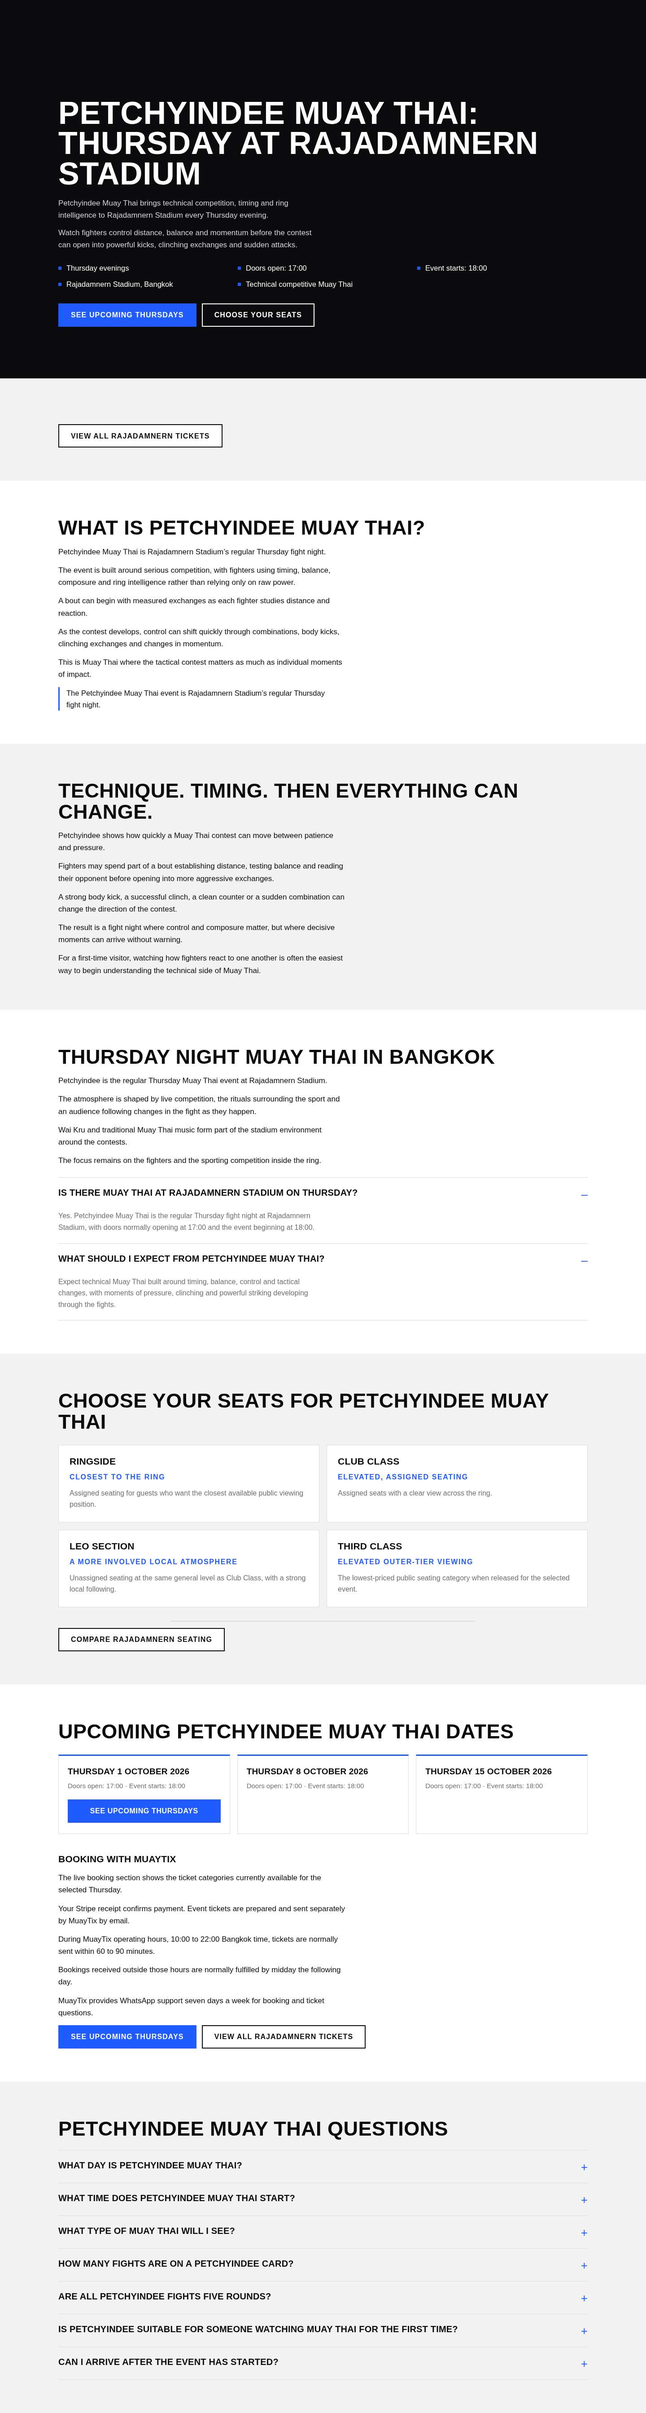
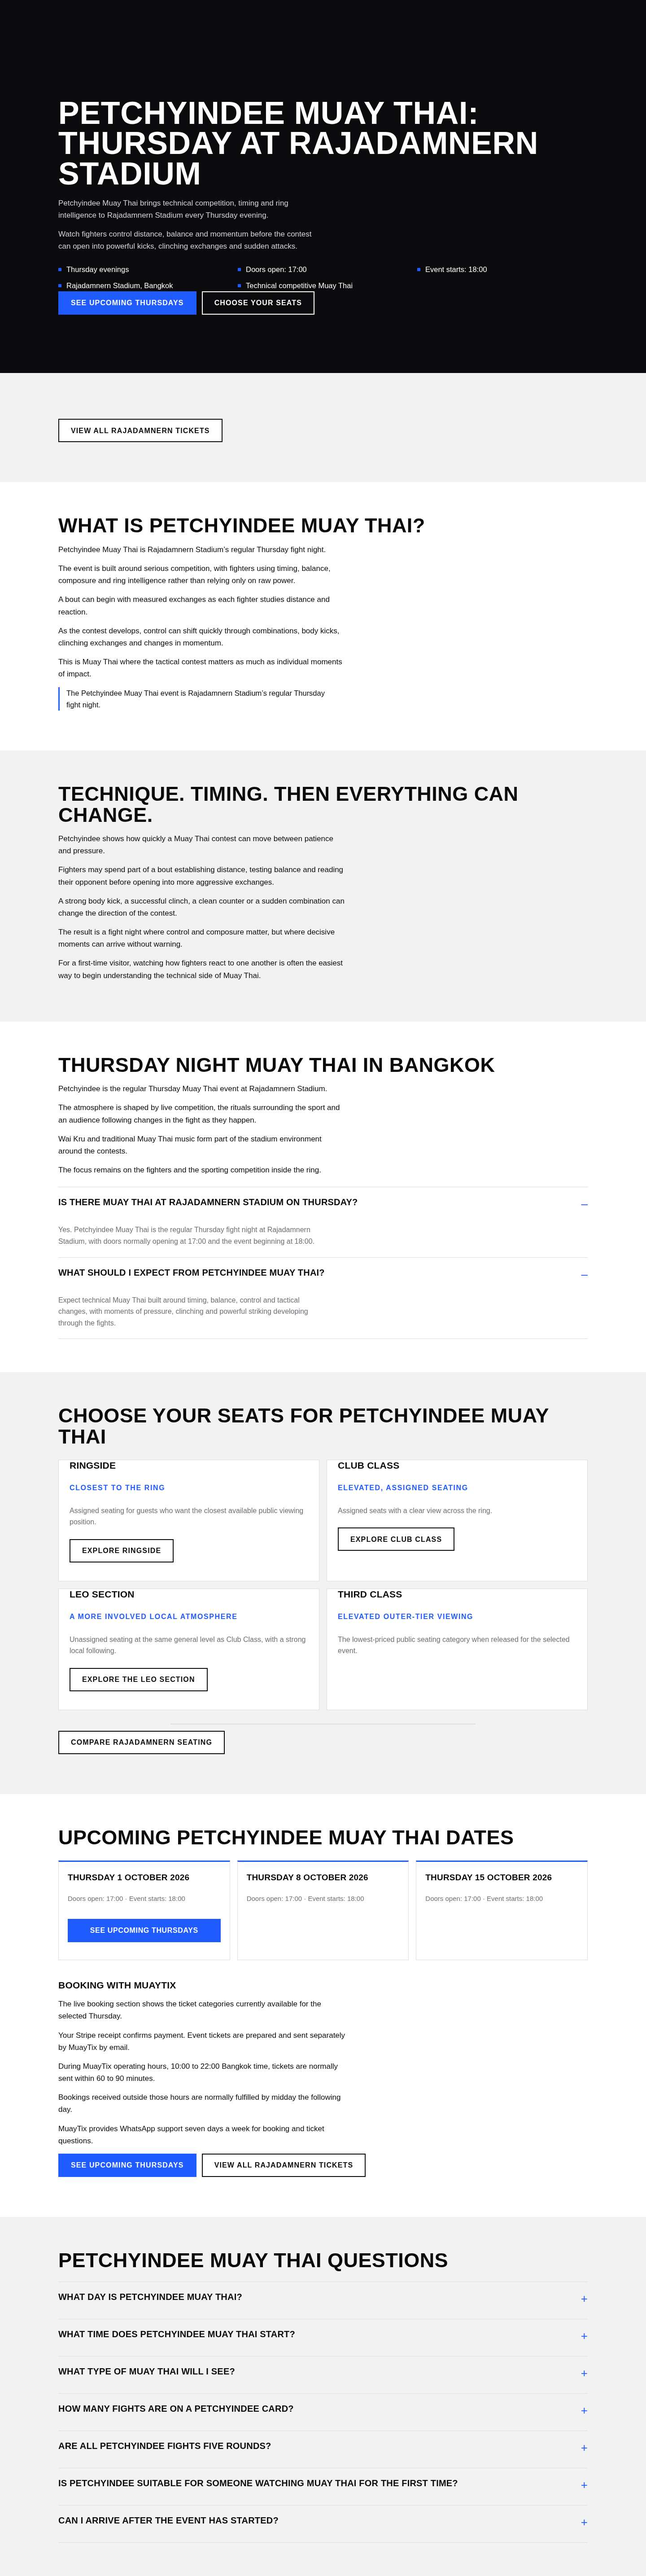
Petchyindee: fix the same desktop text-centring bug, add seat-card links
Jason asked for this directly after the same fix on New Power: check
Petchyindee's evergreen and dated pages for the same desktop text
alignment problem, and connect the seat-class cards to their own pages.

Same root cause as New Power: <div class="mtx-pi"> had no id, so it
had nothing to beat Tilda's own #allrecords * { text-align: center }
with. Fixed the same way: id="mtx-pi" in build.mjs, and the standard
#mtx-pi.mtx-pi defensive block in style.css. One wrinkle here New Power
didn't have: .mtx-pi__ev--rws .mtx-pi__btn--blue recolours the RWS-
branded event card's button darker, and the id-qualified reassertion
of the plain blue button would otherwise have outranked and silently
undone that. Restated with the id so it still wins.

Seat cards (Ringside, Club Class, LEO Section) now link to their own
pages, same approved URLs and button text already live on
pages/seating-v2 and just added to pages/new-power. Third Class still
has no link, no page exists for it.

verify.mjs gets the same hostile-host simulation added to New Power's:
renders inside a stand-in #allrecords wrapper carrying Tilda's own
centring rule, and fails if anything comes back centred. Confirms the
fix against the actual defect class, not a blank page.

Both pages re-verified after: 0 horizontal overflow at six widths, 0
elements forced centre by the hostile host, 0 contrast failures, 0
invented links, all locked copy verbatim, every seat image matched.
[…]

diff --git a/pages/petchyindee/hub-source.html b/pages/petchyindee/hub-source.html
@@ -9,7 +9,7 @@
   All visible wording is generated from document-a.txt, the approved editorial
   source. It is not typed into this file and must not be edited here.
 -->
-<div class="mtx-pi">
+<div class="mtx-pi" id="mtx-pi">
 <style>
 /* All styles are scoped under .mtx-pi so nothing here can affect the rest of
    the site, and the site's own styles are less likely to affect this block.
@@ -631,6 +631,48 @@
 .mtx-pi__close .mtx-pi__ctarow { justify-content: center; }
 @media (max-width: 1000px) { .mtx-pi__dates { grid-template-columns: repeat(2, minmax(0, 1fr)); } }
 @media (max-width: 620px) { .mtx-pi__dates { grid-template-columns: 1fr; } .mtx-pi .mtx-pi__seatgfx { width: calc(100% + 40px); margin-inline: -20px; } }
+
+/* Every page in this project pastes into Tilda under one HTML block, and
+   Tilda's own host template carries `#allrecords * { text-align: center }`.
+   That is an ID selector, (1,0,0), and it beats every rule above here: none
+   of them sets text-align at all, so on the live page every lede, every
+   fact, every card title and every FAQ question came back centred. Found
+   the same defect, same missing id, on pages/new-power/style.css first (30
+   September 2026); this page had never had the id either.
+
+   #mtx-pi.mtx-pi * is (1,1,1) and beats (1,0,0) outright, regardless of
+   source order. */
+#mtx-pi.mtx-pi,
+#mtx-pi.mtx-pi * { text-align: left; }
+
+/* The handful that genuinely centre are told again, one level higher. */
+#mtx-pi.mtx-pi .mtx-pi__btn,
+#mtx-pi.mtx-pi .mtx-pi__close,
+#mtx-pi.mtx-pi .mtx-pi__close * { text-align: center; }
+
+/* Colour, stated the same way and for the same reason: a host rule shaped
+   like `#allrecords a { color: inherit }` is (1,0,1) and beats every
+   single-class button rule above it. */
+#mtx-pi.mtx-pi a.mtx-pi__btn--blue    { background: var(--pi-blue); color: #fff; }
+#mtx-pi.mtx-pi a.mtx-pi__btn--blue:hover    { background: var(--pi-blue-dark); color: #fff; }
+#mtx-pi.mtx-pi a.mtx-pi__btn--ghost   { background: transparent; border-color: #fff; color: #fff; }
+#mtx-pi.mtx-pi a.mtx-pi__btn--ghost:hover   { background: #fff; color: var(--pi-ink); }
+#mtx-pi.mtx-pi a.mtx-pi__btn--outline { background: #fff; border-color: var(--pi-ink); color: var(--pi-ink); }
+#mtx-pi.mtx-pi a.mtx-pi__btn--outline:hover { border-color: var(--pi-blue); color: var(--pi-blue); }
+#mtx-pi.mtx-pi a.mtx-pi__btn--red     { background: var(--pi-rws); color: #fff; }
+#mtx-pi.mtx-pi a.mtx-pi__btn--red:hover     { background: var(--pi-rws-dark); color: #fff; }
+
+/* The RWS-branded event card recolours its own blue button darker. That rule
+   is .mtx-pi__ev--rws .mtx-pi__btn--blue, (0,2,0), which the plain-coloured
+   reassertion two lines up, now (1,2,1) with the id added, would otherwise
+   beat and silently turn back to ordinary blue. Restated with the id so it
+   keeps winning. */
+#mtx-pi.mtx-pi .mtx-pi__ev--rws a.mtx-pi__btn--blue { background: var(--pi-rws-dark); }
+#mtx-pi.mtx-pi .mtx-pi__ev--rws a.mtx-pi__btn--blue:hover { background: #a80a15; }
+
+/* The new per-class link on each seat card (Ringside, Club Class, LEO
+   Section). Third Class has no page yet, so its card gets no button. */
+.mtx-pi__cardgo { margin-top: 16px !important; }
 </style>
 
   <header class="mtx-pi__hero">
@@ -720,6 +762,7 @@
           <h3>Ringside</h3>
           <p class="mtx-pi__standfirst">Closest to the ring</p>
           <p>Assigned seating for guests who want the closest available public viewing position.</p>
+          <p class="mtx-pi__cardgo"><a class="mtx-pi__btn mtx-pi__btn--outline" href="/rajadamnern-stadium-seating/ringside">Explore Ringside</a></p>
         </li>
 
         <li class="mtx-pi__card mtx-pi__card--gfx">
@@ -727,6 +770,7 @@
           <h3>Club Class</h3>
           <p class="mtx-pi__standfirst">Elevated, assigned seating</p>
           <p>Assigned seats with a clear view across the ring.</p>
+          <p class="mtx-pi__cardgo"><a class="mtx-pi__btn mtx-pi__btn--outline" href="/rajadamnern-stadium-seating/club-class">Explore Club Class</a></p>
         </li>
 
         <li class="mtx-pi__card mtx-pi__card--gfx">
@@ -734,6 +778,7 @@
           <h3>LEO Section</h3>
           <p class="mtx-pi__standfirst">A more involved local atmosphere</p>
           <p>Unassigned seating at the same general level as Club Class, with a strong local following.</p>
+          <p class="mtx-pi__cardgo"><a class="mtx-pi__btn mtx-pi__btn--outline" href="/rajadamnern-stadium-seating/leo-section">Explore the LEO Section</a></p>
         </li>
 
         <li class="mtx-pi__card mtx-pi__card--gfx">

diff --git a/pages/petchyindee/dated-source.html b/pages/petchyindee/dated-source.html
@@ -9,7 +9,7 @@
   All visible wording is generated from document-a.txt, the approved editorial
   source. It is not typed into this file and must not be edited here.
 -->
-<div class="mtx-pi">
+<div class="mtx-pi" id="mtx-pi">
 <style>
 /* All styles are scoped under .mtx-pi so nothing here can affect the rest of
    the site, and the site's own styles are less likely to affect this block.
@@ -631,6 +631,48 @@
 .mtx-pi__close .mtx-pi__ctarow { justify-content: center; }
 @media (max-width: 1000px) { .mtx-pi__dates { grid-template-columns: repeat(2, minmax(0, 1fr)); } }
 @media (max-width: 620px) { .mtx-pi__dates { grid-template-columns: 1fr; } .mtx-pi .mtx-pi__seatgfx { width: calc(100% + 40px); margin-inline: -20px; } }
+
+/* Every page in this project pastes into Tilda under one HTML block, and
+   Tilda's own host template carries `#allrecords * { text-align: center }`.
+   That is an ID selector, (1,0,0), and it beats every rule above here: none
+   of them sets text-align at all, so on the live page every lede, every
+   fact, every card title and every FAQ question came back centred. Found
+   the same defect, same missing id, on pages/new-power/style.css first (30
+   September 2026); this page had never had the id either.
+
+   #mtx-pi.mtx-pi * is (1,1,1) and beats (1,0,0) outright, regardless of
+   source order. */
+#mtx-pi.mtx-pi,
+#mtx-pi.mtx-pi * { text-align: left; }
+
+/* The handful that genuinely centre are told again, one level higher. */
+#mtx-pi.mtx-pi .mtx-pi__btn,
+#mtx-pi.mtx-pi .mtx-pi__close,
+#mtx-pi.mtx-pi .mtx-pi__close * { text-align: center; }
+
+/* Colour, stated the same way and for the same reason: a host rule shaped
+   like `#allrecords a { color: inherit }` is (1,0,1) and beats every
+   single-class button rule above it. */
+#mtx-pi.mtx-pi a.mtx-pi__btn--blue    { background: var(--pi-blue); color: #fff; }
+#mtx-pi.mtx-pi a.mtx-pi__btn--blue:hover    { background: var(--pi-blue-dark); color: #fff; }
+#mtx-pi.mtx-pi a.mtx-pi__btn--ghost   { background: transparent; border-color: #fff; color: #fff; }
+#mtx-pi.mtx-pi a.mtx-pi__btn--ghost:hover   { background: #fff; color: var(--pi-ink); }
+#mtx-pi.mtx-pi a.mtx-pi__btn--outline { background: #fff; border-color: var(--pi-ink); color: var(--pi-ink); }
+#mtx-pi.mtx-pi a.mtx-pi__btn--outline:hover { border-color: var(--pi-blue); color: var(--pi-blue); }
+#mtx-pi.mtx-pi a.mtx-pi__btn--red     { background: var(--pi-rws); color: #fff; }
+#mtx-pi.mtx-pi a.mtx-pi__btn--red:hover     { background: var(--pi-rws-dark); color: #fff; }
+
+/* The RWS-branded event card recolours its own blue button darker. That rule
+   is .mtx-pi__ev--rws .mtx-pi__btn--blue, (0,2,0), which the plain-coloured
+   reassertion two lines up, now (1,2,1) with the id added, would otherwise
+   beat and silently turn back to ordinary blue. Restated with the id so it
+   keeps winning. */
+#mtx-pi.mtx-pi .mtx-pi__ev--rws a.mtx-pi__btn--blue { background: var(--pi-rws-dark); }
+#mtx-pi.mtx-pi .mtx-pi__ev--rws a.mtx-pi__btn--blue:hover { background: #a80a15; }
+
+/* The new per-class link on each seat card (Ringside, Club Class, LEO
+   Section). Third Class has no page yet, so its card gets no button. */
+.mtx-pi__cardgo { margin-top: 16px !important; }
 </style>
 
   <header class="mtx-pi__hero">
@@ -694,6 +736,7 @@
           <h3>Ringside</h3>
           <p class="mtx-pi__standfirst">Closest to the ring</p>
           <p>Assigned seating for guests who want the closest available public viewing position.</p>
+          <p class="mtx-pi__cardgo"><a class="mtx-pi__btn mtx-pi__btn--outline" href="/rajadamnern-stadium-seating/ringside">Explore Ringside</a></p>
         </li>
 
         <li class="mtx-pi__card mtx-pi__card--gfx">
@@ -701,6 +744,7 @@
           <h3>Club Class</h3>
           <p class="mtx-pi__standfirst">Elevated, assigned seating</p>
           <p>Assigned seats with a clear view across the ring.</p>
+          <p class="mtx-pi__cardgo"><a class="mtx-pi__btn mtx-pi__btn--outline" href="/rajadamnern-stadium-seating/club-class">Explore Club Class</a></p>
         </li>
 
         <li class="mtx-pi__card mtx-pi__card--gfx">
@@ -708,6 +752,7 @@
           <h3>LEO Section</h3>
           <p class="mtx-pi__standfirst">A more involved local atmosphere</p>
           <p>Unassigned seating at the same general level as Club Class, with a strong local following.</p>
+          <p class="mtx-pi__cardgo"><a class="mtx-pi__btn mtx-pi__btn--outline" href="/rajadamnern-stadium-seating/leo-section">Explore the LEO Section</a></p>
         </li>
       </ul>
         <p class="mtx-pi__maplayout">

diff --git a/pages/petchyindee/petchyindee-HUB-PASTE-INTO-TILDA.html b/pages/petchyindee/petchyindee-HUB-PASTE-INTO-TILDA.html
@@ -1,4 +1,4 @@
-<div class="mtx-pi">
+<div class="mtx-pi" id="mtx-pi">
 <style>.mtx-pi, .mtx-pi * { box-sizing: border-box; }
 .mtx-pi {
   --pi-blue: #1f5bff;
@@ -468,7 +468,28 @@
 .mtx-pi .mtx-pi__close p { margin-inline: auto; }
 .mtx-pi__close .mtx-pi__ctarow { justify-content: center; }
 @media (max-width: 1000px) { .mtx-pi__dates { grid-template-columns: repeat(2, minmax(0, 1fr)); } }
-@media (max-width: 620px) { .mtx-pi__dates { grid-template-columns: 1fr; } .mtx-pi .mtx-pi__seatgfx { width: calc(100% + 40px); margin-inline: -20px; } }</style>
+@media (max-width: 620px) { .mtx-pi__dates { grid-template-columns: 1fr; } .mtx-pi .mtx-pi__seatgfx { width: calc(100% + 40px); margin-inline: -20px; } }
+
+#mtx-pi.mtx-pi,
+#mtx-pi.mtx-pi * { text-align: left; }
+
+#mtx-pi.mtx-pi .mtx-pi__btn,
+#mtx-pi.mtx-pi .mtx-pi__close,
+#mtx-pi.mtx-pi .mtx-pi__close * { text-align: center; }
+
+#mtx-pi.mtx-pi a.mtx-pi__btn--blue    { background: var(--pi-blue); color: #fff; }
+#mtx-pi.mtx-pi a.mtx-pi__btn--blue:hover    { background: var(--pi-blue-dark); color: #fff; }
+#mtx-pi.mtx-pi a.mtx-pi__btn--ghost   { background: transparent; border-color: #fff; color: #fff; }
+#mtx-pi.mtx-pi a.mtx-pi__btn--ghost:hover   { background: #fff; color: var(--pi-ink); }
+#mtx-pi.mtx-pi a.mtx-pi__btn--outline { background: #fff; border-color: var(--pi-ink); color: var(--pi-ink); }
+#mtx-pi.mtx-pi a.mtx-pi__btn--outline:hover { border-color: var(--pi-blue); color: var(--pi-blue); }
+#mtx-pi.mtx-pi a.mtx-pi__btn--red     { background: var(--pi-rws); color: #fff; }
+#mtx-pi.mtx-pi a.mtx-pi__btn--red:hover     { background: var(--pi-rws-dark); color: #fff; }
+
+#mtx-pi.mtx-pi .mtx-pi__ev--rws a.mtx-pi__btn--blue { background: var(--pi-rws-dark); }
+#mtx-pi.mtx-pi .mtx-pi__ev--rws a.mtx-pi__btn--blue:hover { background: #a80a15; }
+
+.mtx-pi__cardgo { margin-top: 16px !important; }</style>
 
   <header class="mtx-pi__hero">
     <div class="mtx-pi__shell">
@@ -552,6 +573,7 @@
           <h3>Ringside</h3>
           <p class="mtx-pi__standfirst">Closest to the ring</p>
           <p>Assigned seating for guests who want the closest available public viewing position.</p>
+          <p class="mtx-pi__cardgo"><a class="mtx-pi__btn mtx-pi__btn--outline" href="/rajadamnern-stadium-seating/ringside">Explore Ringside</a></p>
         </li>
 
         <li class="mtx-pi__card mtx-pi__card--gfx">
@@ -559,6 +581,7 @@
           <h3>Club Class</h3>
           <p class="mtx-pi__standfirst">Elevated, assigned seating</p>
           <p>Assigned seats with a clear view across the ring.</p>
+          <p class="mtx-pi__cardgo"><a class="mtx-pi__btn mtx-pi__btn--outline" href="/rajadamnern-stadium-seating/club-class">Explore Club Class</a></p>
         </li>
 
         <li class="mtx-pi__card mtx-pi__card--gfx">
@@ -566,6 +589,7 @@
           <h3>LEO Section</h3>
           <p class="mtx-pi__standfirst">A more involved local atmosphere</p>
           <p>Unassigned seating at the same general level as Club Class, with a strong local following.</p>
+          <p class="mtx-pi__cardgo"><a class="mtx-pi__btn mtx-pi__btn--outline" href="/rajadamnern-stadium-seating/leo-section">Explore the LEO Section</a></p>
         </li>
 
         <li class="mtx-pi__card mtx-pi__card--gfx">

diff --git a/pages/petchyindee/petchyindee-01-OCT-PASTE-INTO-TILDA.html b/pages/petchyindee/petchyindee-01-OCT-PASTE-INTO-TILDA.html
@@ -1,4 +1,4 @@
-<div class="mtx-pi">
+<div class="mtx-pi" id="mtx-pi">
 <style>.mtx-pi, .mtx-pi * { box-sizing: border-box; }
 .mtx-pi {
   --pi-blue: #1f5bff;
@@ -468,7 +468,28 @@
 .mtx-pi .mtx-pi__close p { margin-inline: auto; }
 .mtx-pi__close .mtx-pi__ctarow { justify-content: center; }
 @media (max-width: 1000px) { .mtx-pi__dates { grid-template-columns: repeat(2, minmax(0, 1fr)); } }
-@media (max-width: 620px) { .mtx-pi__dates { grid-template-columns: 1fr; } .mtx-pi .mtx-pi__seatgfx { width: calc(100% + 40px); margin-inline: -20px; } }</style>
+@media (max-width: 620px) { .mtx-pi__dates { grid-template-columns: 1fr; } .mtx-pi .mtx-pi__seatgfx { width: calc(100% + 40px); margin-inline: -20px; } }
+
+#mtx-pi.mtx-pi,
+#mtx-pi.mtx-pi * { text-align: left; }
+
+#mtx-pi.mtx-pi .mtx-pi__btn,
+#mtx-pi.mtx-pi .mtx-pi__close,
+#mtx-pi.mtx-pi .mtx-pi__close * { text-align: center; }
+
+#mtx-pi.mtx-pi a.mtx-pi__btn--blue    { background: var(--pi-blue); color: #fff; }
+#mtx-pi.mtx-pi a.mtx-pi__btn--blue:hover    { background: var(--pi-blue-dark); color: #fff; }
+#mtx-pi.mtx-pi a.mtx-pi__btn--ghost   { background: transparent; border-color: #fff; color: #fff; }
+#mtx-pi.mtx-pi a.mtx-pi__btn--ghost:hover   { background: #fff; color: var(--pi-ink); }
+#mtx-pi.mtx-pi a.mtx-pi__btn--outline { background: #fff; border-color: var(--pi-ink); color: var(--pi-ink); }
+#mtx-pi.mtx-pi a.mtx-pi__btn--outline:hover { border-color: var(--pi-blue); color: var(--pi-blue); }
+#mtx-pi.mtx-pi a.mtx-pi__btn--red     { background: var(--pi-rws); color: #fff; }
+#mtx-pi.mtx-pi a.mtx-pi__btn--red:hover     { background: var(--pi-rws-dark); color: #fff; }
+
+#mtx-pi.mtx-pi .mtx-pi__ev--rws a.mtx-pi__btn--blue { background: var(--pi-rws-dark); }
+#mtx-pi.mtx-pi .mtx-pi__ev--rws a.mtx-pi__btn--blue:hover { background: #a80a15; }
+
+.mtx-pi__cardgo { margin-top: 16px !important; }</style>
 
   <header class="mtx-pi__hero">
     <div class="mtx-pi__shell">
@@ -528,6 +549,7 @@
           <h3>Ringside</h3>
           <p class="mtx-pi__standfirst">Closest to the ring</p>
           <p>Assigned seating for guests who want the closest available public viewing position.</p>
+          <p class="mtx-pi__cardgo"><a class="mtx-pi__btn mtx-pi__btn--outline" href="/rajadamnern-stadium-seating/ringside">Explore Ringside</a></p>
         </li>
 
         <li class="mtx-pi__card mtx-pi__card--gfx">
@@ -535,6 +557,7 @@
           <h3>Club Class</h3>
           <p class="mtx-pi__standfirst">Elevated, assigned seating</p>
           <p>Assigned seats with a clear view across the ring.</p>
+          <p class="mtx-pi__cardgo"><a class="mtx-pi__btn mtx-pi__btn--outline" href="/rajadamnern-stadium-seating/club-class">Explore Club Class</a></p>
         </li>
 
         <li class="mtx-pi__card mtx-pi__card--gfx">
@@ -542,6 +565,7 @@
           <h3>LEO Section</h3>
           <p class="mtx-pi__standfirst">A more involved local atmosphere</p>
           <p>Unassigned seating at the same general level as Club Class, with a strong local following.</p>
+          <p class="mtx-pi__cardgo"><a class="mtx-pi__btn mtx-pi__btn--outline" href="/rajadamnern-stadium-seating/leo-section">Explore the LEO Section</a></p>
         </li>
       </ul>
         <p class="mtx-pi__maplayout">

diff --git a/pages/petchyindee/style.css b/pages/petchyindee/style.css
@@ -618,3 +618,45 @@
 .mtx-pi__close .mtx-pi__ctarow { justify-content: center; }
 @media (max-width: 1000px) { .mtx-pi__dates { grid-template-columns: repeat(2, minmax(0, 1fr)); } }
 @media (max-width: 620px) { .mtx-pi__dates { grid-template-columns: 1fr; } .mtx-pi .mtx-pi__seatgfx { width: calc(100% + 40px); margin-inline: -20px; } }
+
+/* Every page in this project pastes into Tilda under one HTML block, and
+   Tilda's own host template carries `#allrecords * { text-align: center }`.
+   That is an ID selector, (1,0,0), and it beats every rule above here: none
+   of them sets text-align at all, so on the live page every lede, every
+   fact, every card title and every FAQ question came back centred. Found
+   the same defect, same missing id, on pages/new-power/style.css first (30
+   September 2026); this page had never had the id either.
+
+   #mtx-pi.mtx-pi * is (1,1,1) and beats (1,0,0) outright, regardless of
+   source order. */
+#mtx-pi.mtx-pi,
+#mtx-pi.mtx-pi * { text-align: left; }
+
+/* The handful that genuinely centre are told again, one level higher. */
+#mtx-pi.mtx-pi .mtx-pi__btn,
+#mtx-pi.mtx-pi .mtx-pi__close,
+#mtx-pi.mtx-pi .mtx-pi__close * { text-align: center; }
+
+/* Colour, stated the same way and for the same reason: a host rule shaped
+   like `#allrecords a { color: inherit }` is (1,0,1) and beats every
+   single-class button rule above it. */
+#mtx-pi.mtx-pi a.mtx-pi__btn--blue    { background: var(--pi-blue); color: #fff; }
+#mtx-pi.mtx-pi a.mtx-pi__btn--blue:hover    { background: var(--pi-blue-dark); color: #fff; }
+#mtx-pi.mtx-pi a.mtx-pi__btn--ghost   { background: transparent; border-color: #fff; color: #fff; }
+#mtx-pi.mtx-pi a.mtx-pi__btn--ghost:hover   { background: #fff; color: var(--pi-ink); }
+#mtx-pi.mtx-pi a.mtx-pi__btn--outline { background: #fff; border-color: var(--pi-ink); color: var(--pi-ink); }
+#mtx-pi.mtx-pi a.mtx-pi__btn--outline:hover { border-color: var(--pi-blue); color: var(--pi-blue); }
+#mtx-pi.mtx-pi a.mtx-pi__btn--red     { background: var(--pi-rws); color: #fff; }
+#mtx-pi.mtx-pi a.mtx-pi__btn--red:hover     { background: var(--pi-rws-dark); color: #fff; }
+
+/* The RWS-branded event card recolours its own blue button darker. That rule
+   is .mtx-pi__ev--rws .mtx-pi__btn--blue, (0,2,0), which the plain-coloured
+   reassertion two lines up, now (1,2,1) with the id added, would otherwise
+   beat and silently turn back to ordinary blue. Restated with the id so it
+   keeps winning. */
+#mtx-pi.mtx-pi .mtx-pi__ev--rws a.mtx-pi__btn--blue { background: var(--pi-rws-dark); }
+#mtx-pi.mtx-pi .mtx-pi__ev--rws a.mtx-pi__btn--blue:hover { background: #a80a15; }
+
+/* The new per-class link on each seat card (Ringside, Club Class, LEO
+   Section). Third Class has no page yet, so its card gets no button. */
+.mtx-pi__cardgo { margin-top: 16px !important; }

diff --git a/pages/petchyindee/hub-body.html b/pages/petchyindee/hub-body.html
@@ -85,6 +85,7 @@
           <h3>Ringside</h3>
           <p class="mtx-pi__standfirst">Closest to the ring</p>
           <p>Assigned seating for guests who want the closest available public viewing position.</p>
+          <p class="mtx-pi__cardgo"><a class="mtx-pi__btn mtx-pi__btn--outline" href="/rajadamnern-stadium-seating/ringside">Explore Ringside</a></p>
         </li>
 
         <li class="mtx-pi__card mtx-pi__card--gfx">
@@ -92,6 +93,7 @@
           <h3>Club Class</h3>
           <p class="mtx-pi__standfirst">Elevated, assigned seating</p>
           <p>Assigned seats with a clear view across the ring.</p>
+          <p class="mtx-pi__cardgo"><a class="mtx-pi__btn mtx-pi__btn--outline" href="/rajadamnern-stadium-seating/club-class">Explore Club Class</a></p>
         </li>
 
         <li class="mtx-pi__card mtx-pi__card--gfx">
@@ -99,6 +101,7 @@
           <h3>LEO Section</h3>
           <p class="mtx-pi__standfirst">A more involved local atmosphere</p>
           <p>Unassigned seating at the same general level as Club Class, with a strong local following.</p>
+          <p class="mtx-pi__cardgo"><a class="mtx-pi__btn mtx-pi__btn--outline" href="/rajadamnern-stadium-seating/leo-section">Explore the LEO Section</a></p>
         </li>
 
         <li class="mtx-pi__card mtx-pi__card--gfx">

diff --git a/pages/petchyindee/dated-body.html b/pages/petchyindee/dated-body.html
@@ -59,6 +59,7 @@
           <h3>Ringside</h3>
           <p class="mtx-pi__standfirst">Closest to the ring</p>
           <p>Assigned seating for guests who want the closest available public viewing position.</p>
+          <p class="mtx-pi__cardgo"><a class="mtx-pi__btn mtx-pi__btn--outline" href="/rajadamnern-stadium-seating/ringside">Explore Ringside</a></p>
         </li>
 
         <li class="mtx-pi__card mtx-pi__card--gfx">
@@ -66,6 +67,7 @@
           <h3>Club Class</h3>
           <p class="mtx-pi__standfirst">Elevated, assigned seating</p>
           <p>Assigned seats with a clear view across the ring.</p>
+          <p class="mtx-pi__cardgo"><a class="mtx-pi__btn mtx-pi__btn--outline" href="/rajadamnern-stadium-seating/club-class">Explore Club Class</a></p>
         </li>
 
         <li class="mtx-pi__card mtx-pi__card--gfx">
@@ -73,6 +75,7 @@
           <h3>LEO Section</h3>
           <p class="mtx-pi__standfirst">A more involved local atmosphere</p>
           <p>Unassigned seating at the same general level as Club Class, with a strong local following.</p>
+          <p class="mtx-pi__cardgo"><a class="mtx-pi__btn mtx-pi__btn--outline" href="/rajadamnern-stadium-seating/leo-section">Explore the LEO Section</a></p>
         </li>
       </ul>
         <p class="mtx-pi__maplayout">
